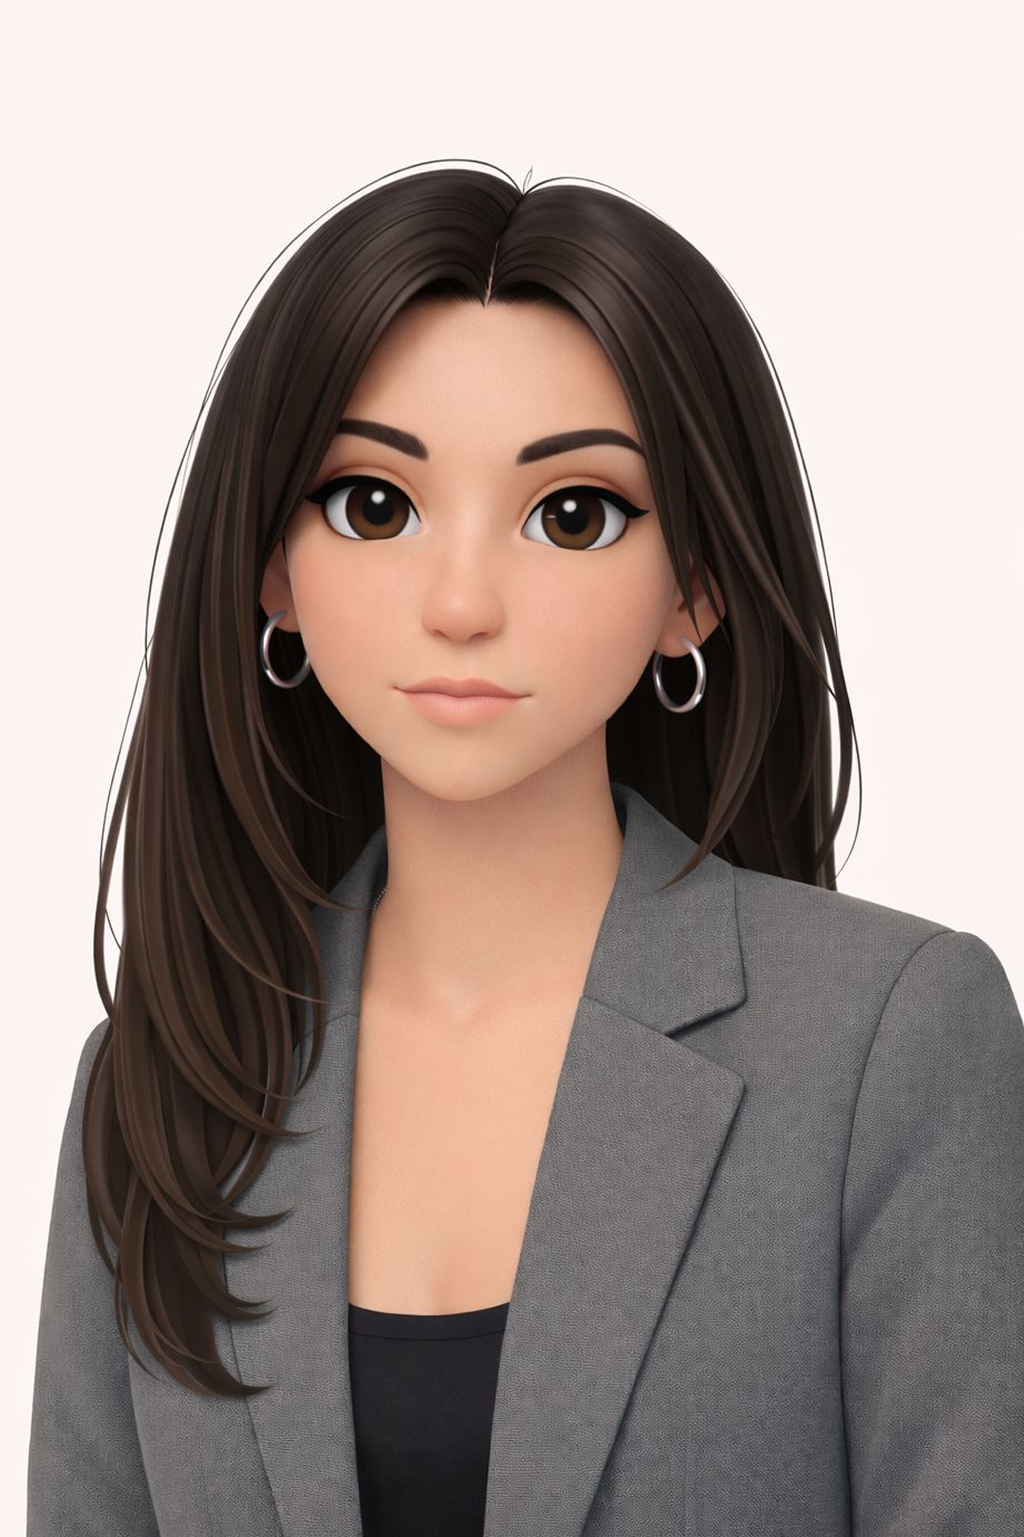
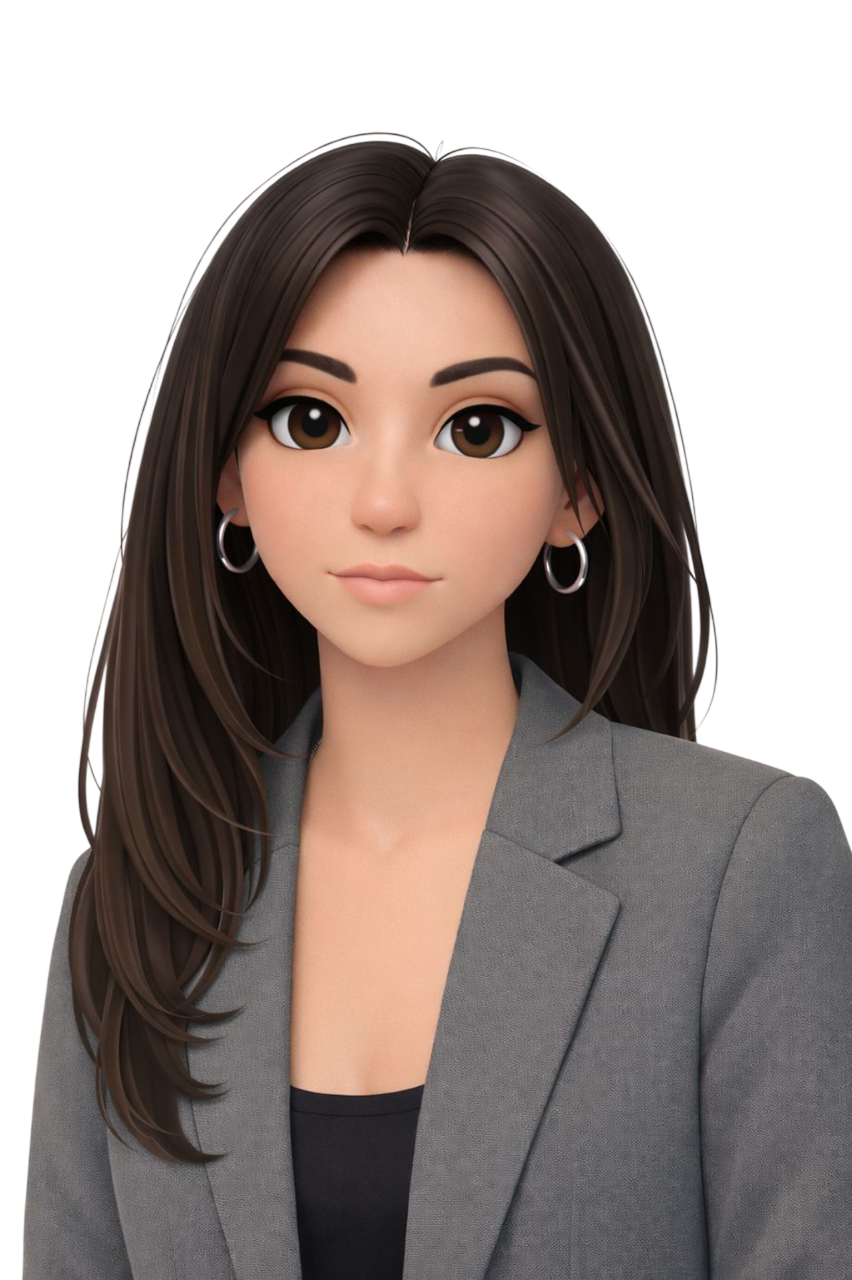
Update team photos and remove section title
- Replace team member portraits with new photos
- Remove 'NUESTRO EQUIPO' title from Team section

diff --git a/src/components/landing/Team.jsx b/src/components/landing/Team.jsx
@@ -25,17 +25,6 @@ export default function Team() {
   return (
     <section id="equipo" className="py-32 px-8 md:px-16 relative scroll-mt-20">
       <div className="max-w-7xl mx-auto">
-        {/* Title */}
-        <motion.h2
-          initial={{ opacity: 0, y: 20 }}
-          whileInView={{ opacity: 1, y: 0 }}
-          viewport={{ once: true }}
-          transition={{ duration: 0.6 }}
-          className="text-[#FFFBFB] text-4xl md:text-5xl mb-16 text-center"
-        >
-          NUESTRO EQUIPO
-        </motion.h2>
-
         {/* Team Grid */}
         <div className="grid md:grid-cols-3 gap-8 md:gap-12">
           {team.map((member, index) => (
